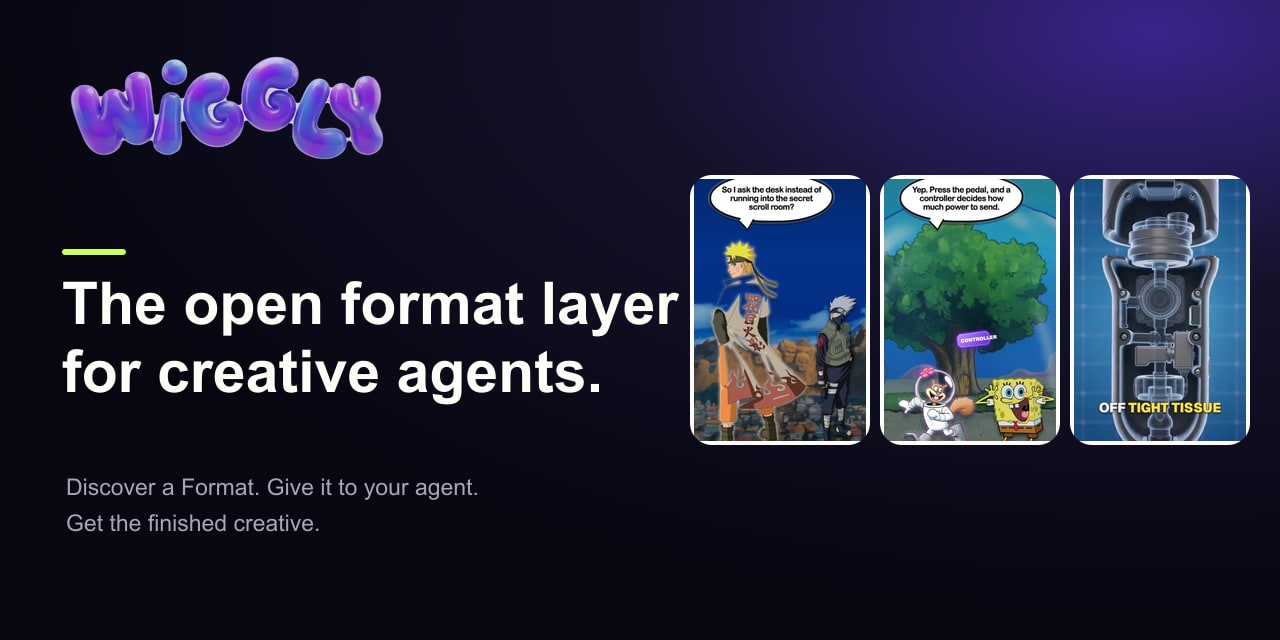
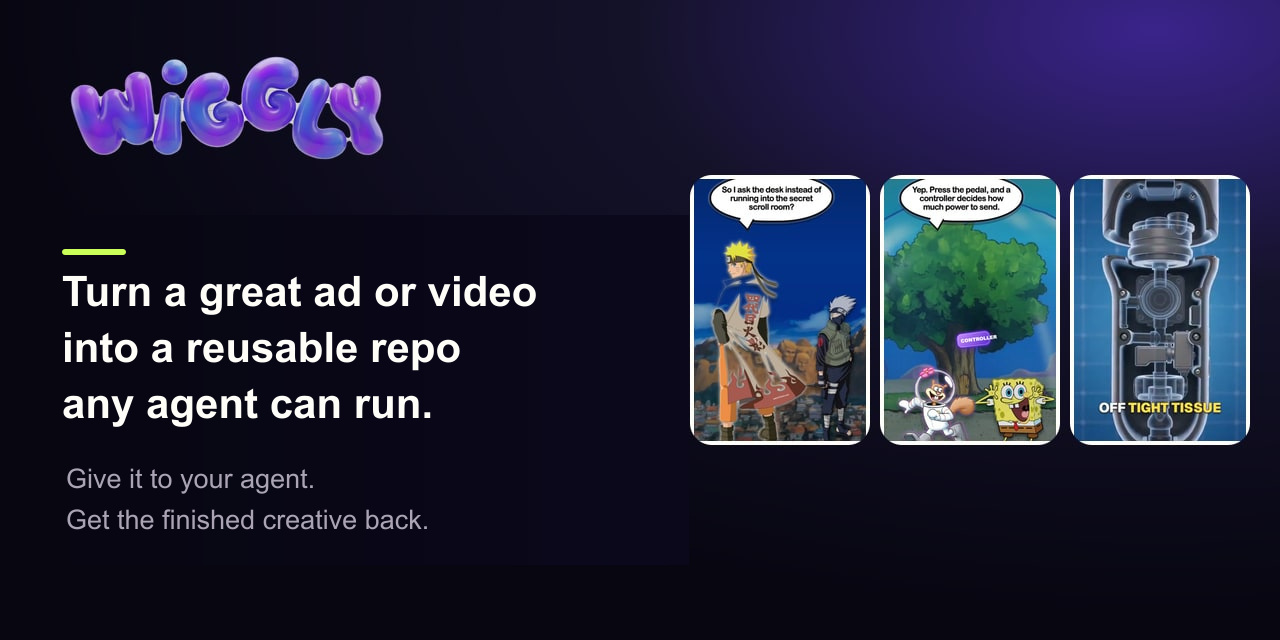
docs: sharpen Wiggly public story

Changed region(s): [[0.0312, 0.4375, 0.5312, 0.6875], [0.0312, 0.7188, 0.375, 0.8438]]

diff --git a/README.md b/README.md
@@ -1,7 +1,7 @@
 # Wiggly
 
 <p align="center">
-  <img src="docs/assets/github/hero.png" alt="Wiggly — the open format layer for creative agents, shown with six real outputs from two reusable Formats." width="100%">
+  <img src="docs/assets/github/hero.png" alt="Wiggly turns a great ad or video into a reusable repo any agent can run, shown with six real outputs from two reusable Formats." width="100%">
 </p>
 
 <p align="center">
@@ -11,31 +11,32 @@
 <p align="center">
   <a href="https://wiggly.agentenamel.com">Open Wiggly</a>
   ·
-  <a href="https://wiggly.agentenamel.com/format-lab/cartoon-explainer">Try the Cartoon Explainer Repo</a>
+  <a href="https://wiggly.agentenamel.com/format-lab/cartoon-explainer">Run Cartoon Explainer</a>
   ·
-  <a href="https://wiggly.agentenamel.com/format-lab/three-d-breakdown">Try the 3D Breakdown Repo</a>
+  <a href="https://wiggly.agentenamel.com/format-lab/three-d-breakdown">Run 3D Breakdown</a>
 </p>
 
-Most good AI videos are not made with one prompt. They take prompts, reference
-images, voices, music, model settings, timing rules, a renderer, and a pile of
-small decisions. Today, the person who made the video usually keeps all of that
-in their head.
+A great AI-made ad or video is more than a prompt. It has reference images,
+model settings, voices, music, timing, a renderer, and the small decisions that
+make everything work.
 
-Wiggly puts the whole recipe in a **Wiggly Repo**.
+A **Format** is the recipe for making one kind of creative. A **Wiggly Repo**
+packages that recipe with the assets, runner, and checks an agent needs to make
+the finished file.
 
-Give the Repo to Claude, Codex, or another coding agent. It can see how the
-Format works, ask you for anything missing, use the included renderer, check
-its own work, and hand you back the finished file.
+Hand the Repo to Claude, Codex, or another coding agent. It asks you for
+anything missing, uses the included runner, checks its work, and gives you the
+result.
 
-## We changed the idea, not the renderer
+## One Format made all six videos
 
 <p align="center">
   <img src="docs/assets/github/proof-reel.gif" alt="The Cartoon Explainer Format running across Naruto, Danny Phantom, and SpongeBob, followed by the 3D Breakdown Format running across Kiala, Grüns, and Theragun." width="720">
 </p>
 
-These are not six videos we built one by one. **Cartoon Explainer** used the same
-renderer for Naruto, Danny Phantom, and SpongeBob. **3D Breakdown** used the same
-renderer for Kiala, Grüns, and Theragun.
+We did not build these six videos one by one. **Cartoon Explainer** used the same
+renderer for Naruto, Danny Phantom, and SpongeBob. **3D Breakdown** used the
+same renderer for Kiala, Grüns, and Theragun.
 
 | Format | What we swapped | What we did not rebuild |
 | --- | --- | --- |
@@ -56,19 +57,18 @@ Use the included runner. Check the video before you send it back.
   <img src="docs/assets/github/agent-challenge.jpg" alt="A copyable agent instruction beside real SpongeBob, Naruto, and Danny Phantom outputs made from the Cartoon Explainer Wiggly Repo." width="100%">
 </p>
 
-That short instruction made the SpongeBob video above. The Repo told the agent
-which files to use, what it was allowed to change, and what to check before it
-called the video done.
+That was the entire request. The Repo supplied the files, rules, renderer, and
+checks that produced the SpongeBob video above.
 
-## What does a Wiggly Repo include?
+## What is inside a Wiggly Repo?
 
 <p align="center">
   <img src="docs/assets/github/format-anatomy.svg" alt="A Wiggly Repo teaches the agent, defines the creative, packages production assets, and proves the result with quality checks." width="100%">
 </p>
 
-Every Format is different. A cartoon explainer should not be forced into the
-same box as a product breakdown or a static ad. But the agent always needs five
-answers:
+Every Format can work differently. A cartoon explainer should not be forced
+into the same box as a product breakdown or a static ad. But every agent needs
+five answers:
 
 - **What am I making?** The instructions and examples.
 - **What do I need from the user?** The inputs and API keys.
@@ -82,22 +82,22 @@ answers:
   <img src="docs/assets/github/format-flywheel.svg" alt="Build, publish, run, remix, improve, and contribute form the Wiggly Format flywheel." width="100%">
 </p>
 
-People should be able to publish a Format, make their own version, fix a bad
-prompt, improve the renderer, and share that work back. The next person should
-start with the better version instead of repeating the same mistakes.
+People should be able to publish a Format, make their own version, improve it,
+and share that work back. The next person should start with the better version
+instead of repeating the same mistakes.
 
 That is the part of GitHub we want to bring to creative work.
 
-## What works today
+## What you can run today
 
 - The live Wiggly app can read a store and turn what it finds into ad ideas.
 - Cartoon Explainer and 3D Breakdown are downloadable and come with their real runners.
 - Both have finished videos across different brands, characters, voices, and topics.
 - Both tell the agent what it needs and stop broken work from being called finished.
 
-It is still early. There is no full Format marketplace or pull-request flow in
-Wiggly yet. These first two Repos prove the important part: an agent can pick up
-someone else's Format and run it without being walked through every step.
+These are working prototypes, not a finished marketplace. They prove the
+important part: an agent can pick up someone else's Format and run it without
+being taught every step.
 
 ## Run Wiggly locally
 
